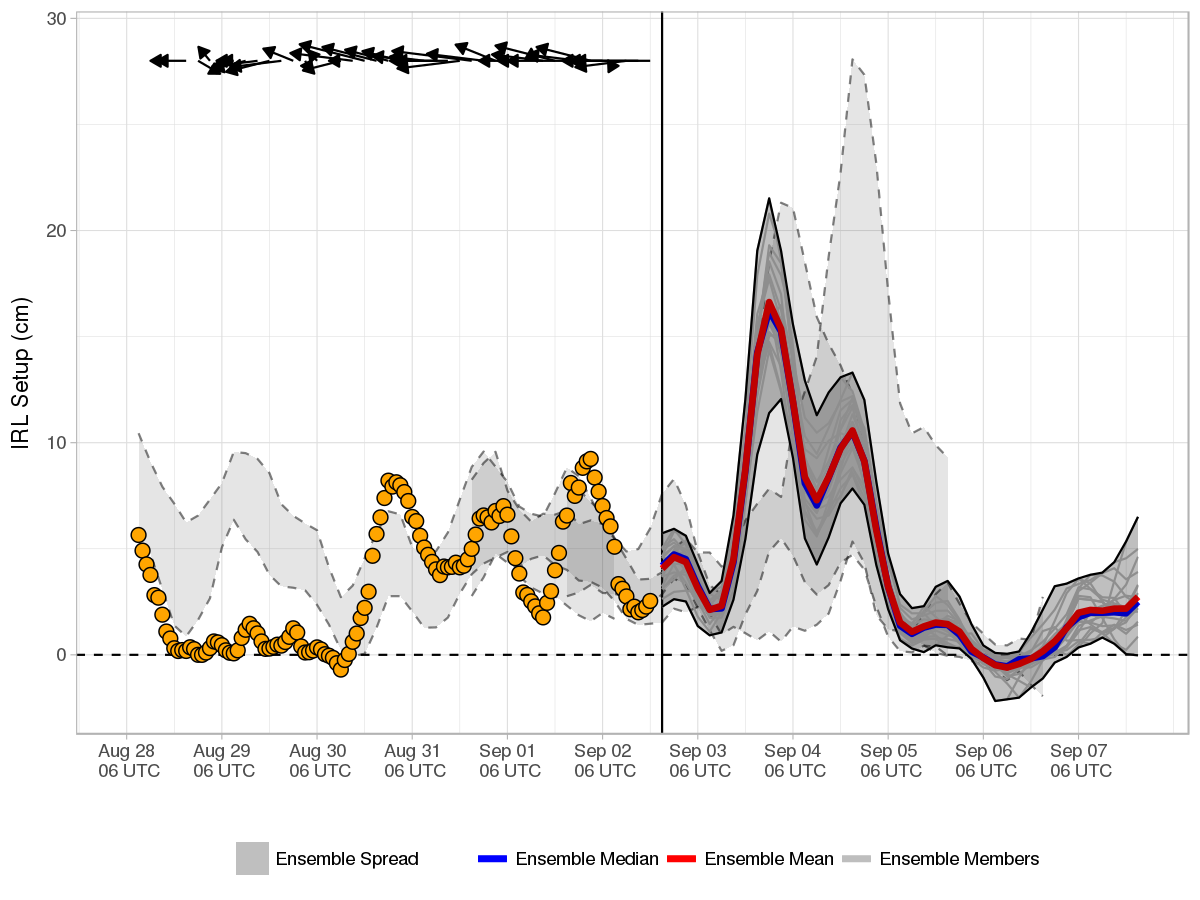
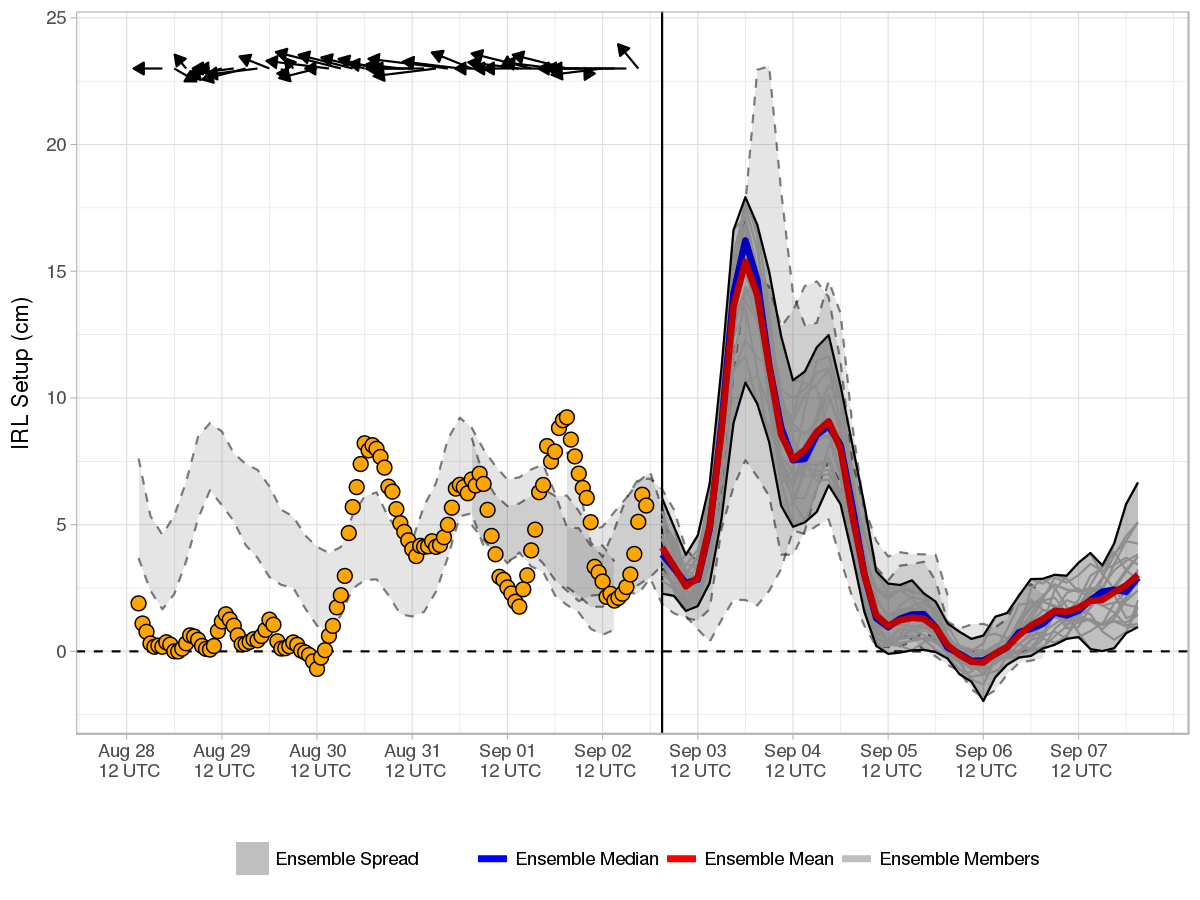
Forecast Update

diff --git a/docs/index.md b/docs/index.md
@@ -1,9 +1,9 @@
-Current Forecast 2018-09-02, Cycle 12 UTC
+Current Forecast 2018-09-02, Cycle 18 UTC
 -----------------------------------------
 
 [![](img/raw_setup.png)](https://fit-winds.github.io/IRLSetup/img/raw_setup.png)
 
-> Forecast valid 2018-09-02 14:25:08.
+> Forecast valid 2018-09-02 20:20:52.
 
 Explanation
 -----------
@@ -23,7 +23,7 @@ Ensemble Forecast System
 cycles. Calculation of the IRL setup is performed shortly after a new
 GEFS cycle is made available on the [data access
 link](http://www.ftp.ncep.noaa.gov/data/nccf/com/gens/prod/). The
-current cycle 2018-09-02 12 UTC 0.5° GEFS mean and median forecasts of
+current cycle 2018-09-02 18 UTC 0.5° GEFS mean and median forecasts of
 setup are represented by the red and blue curves, respectively. Ensemble
 spread from the current and three previous GEFS runs are shaded grey and
 bounded by solid and dashed curves, respectively.
